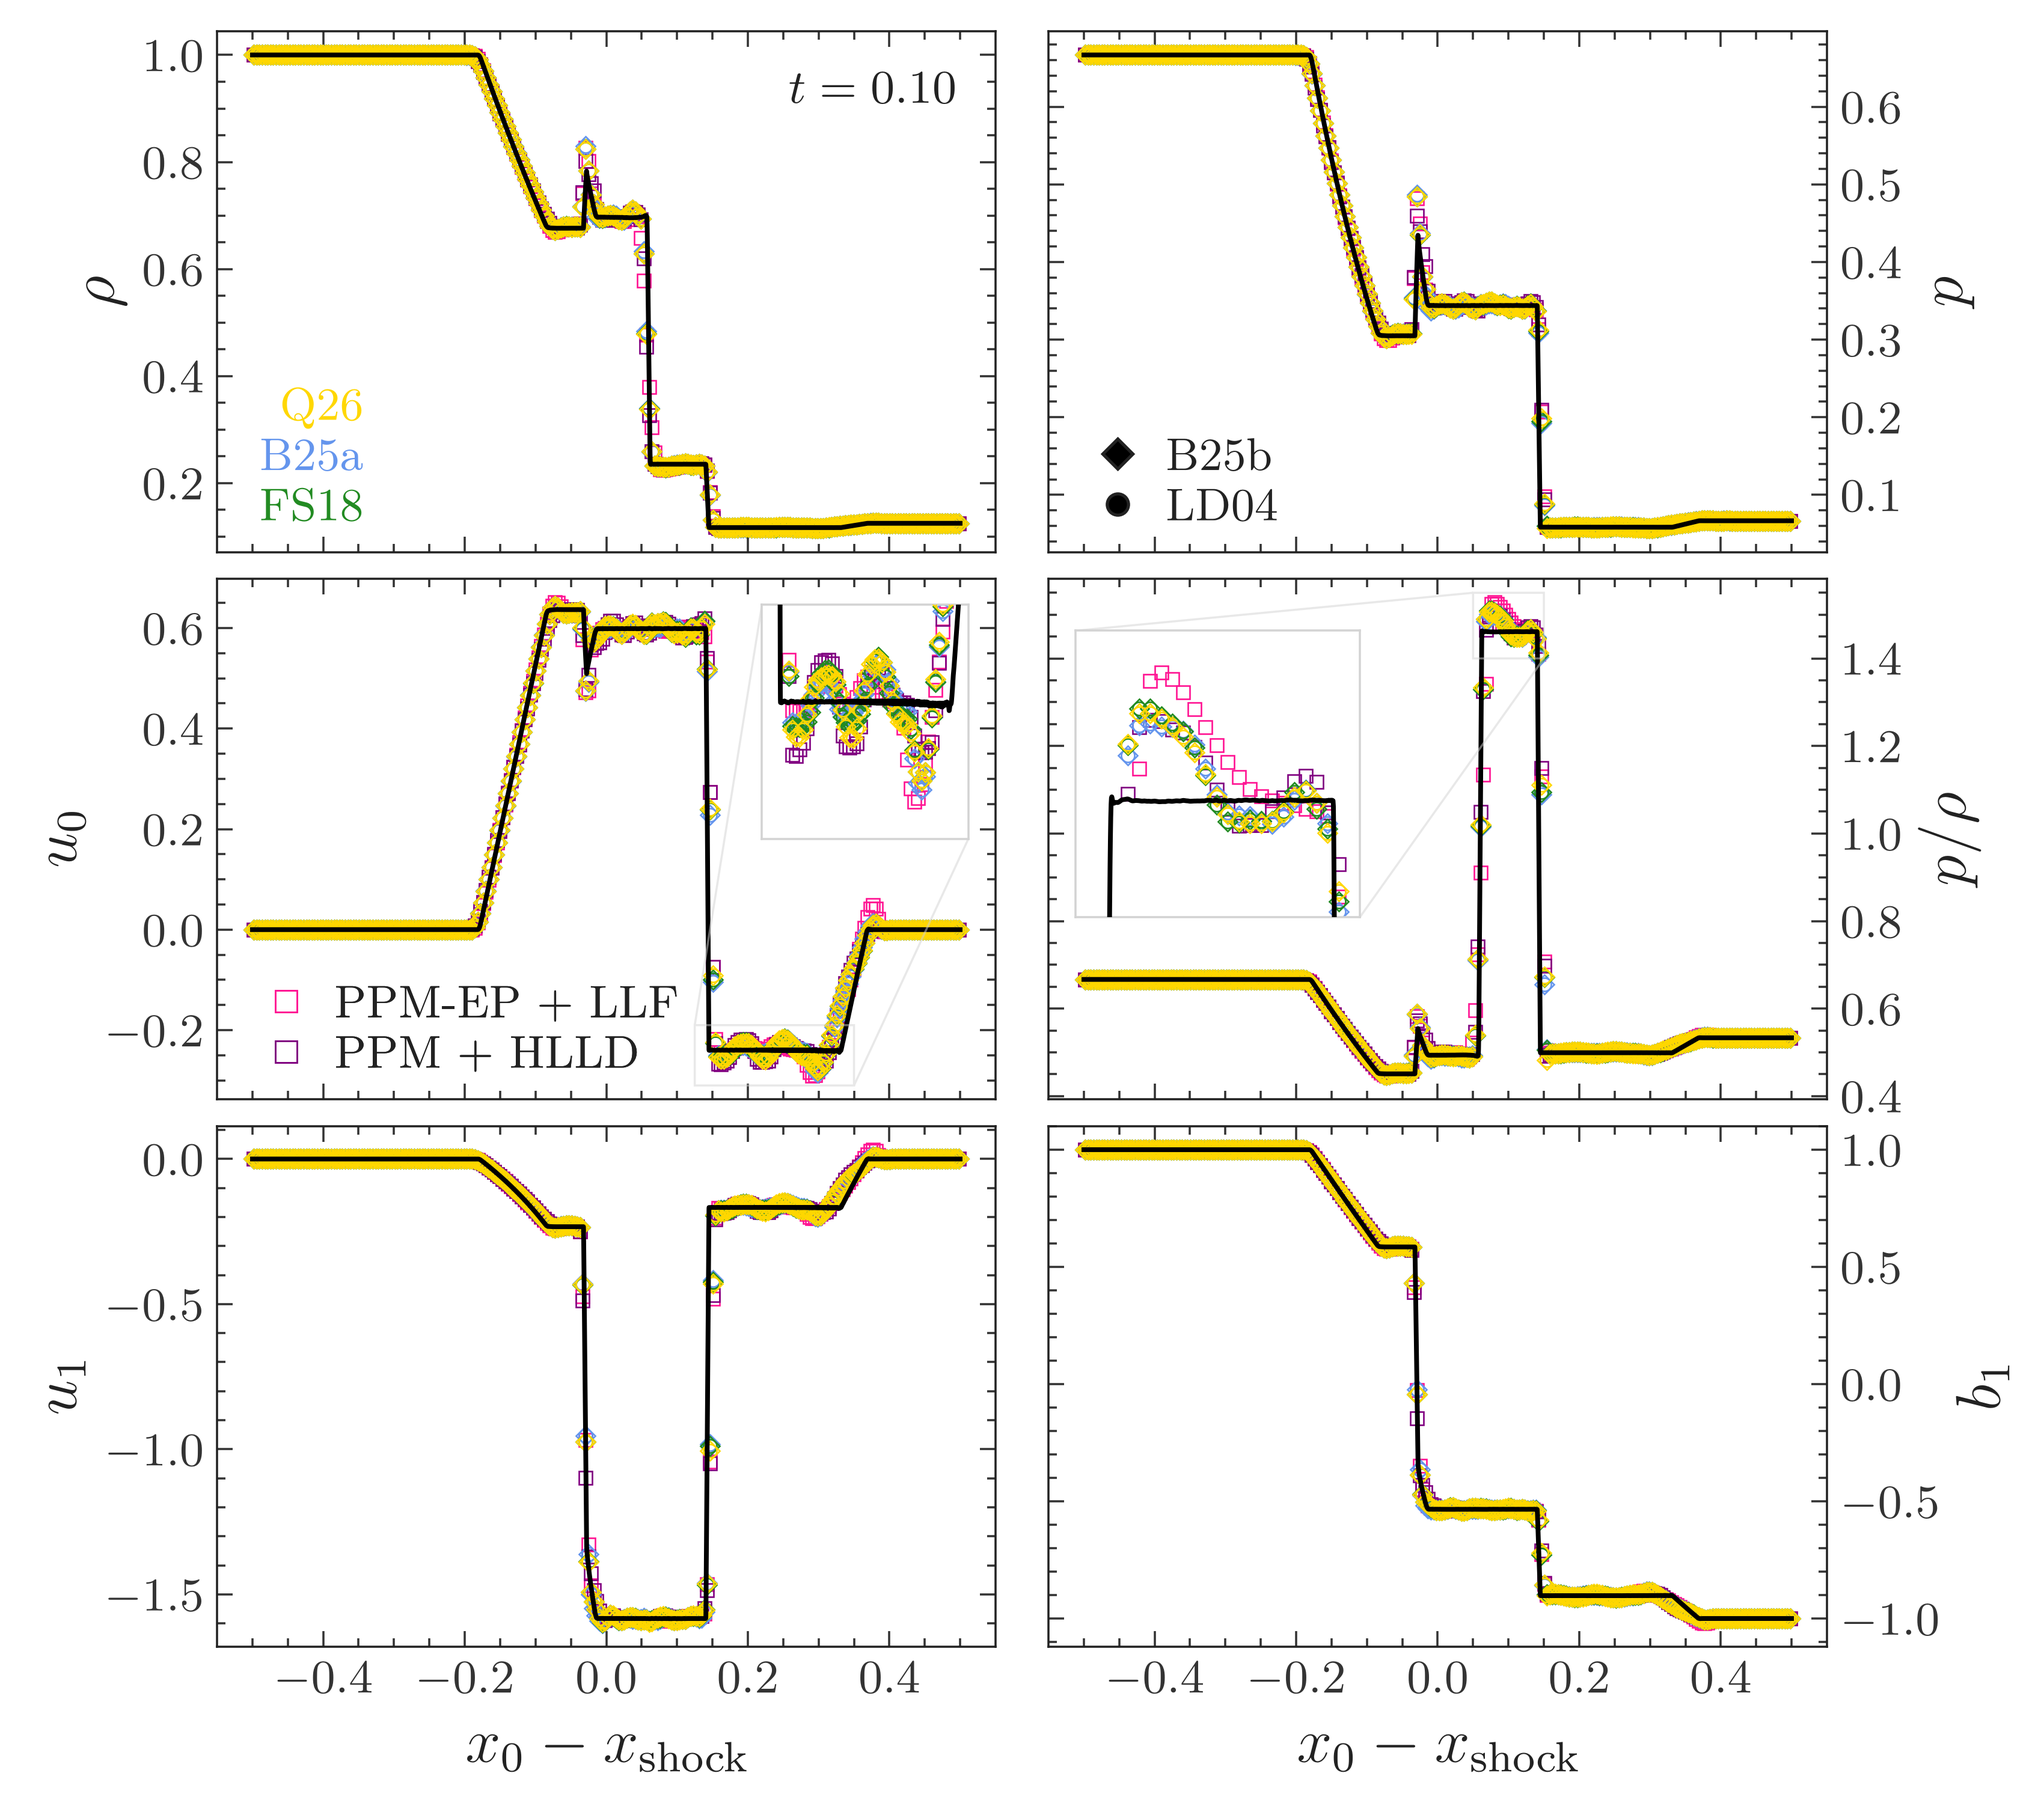
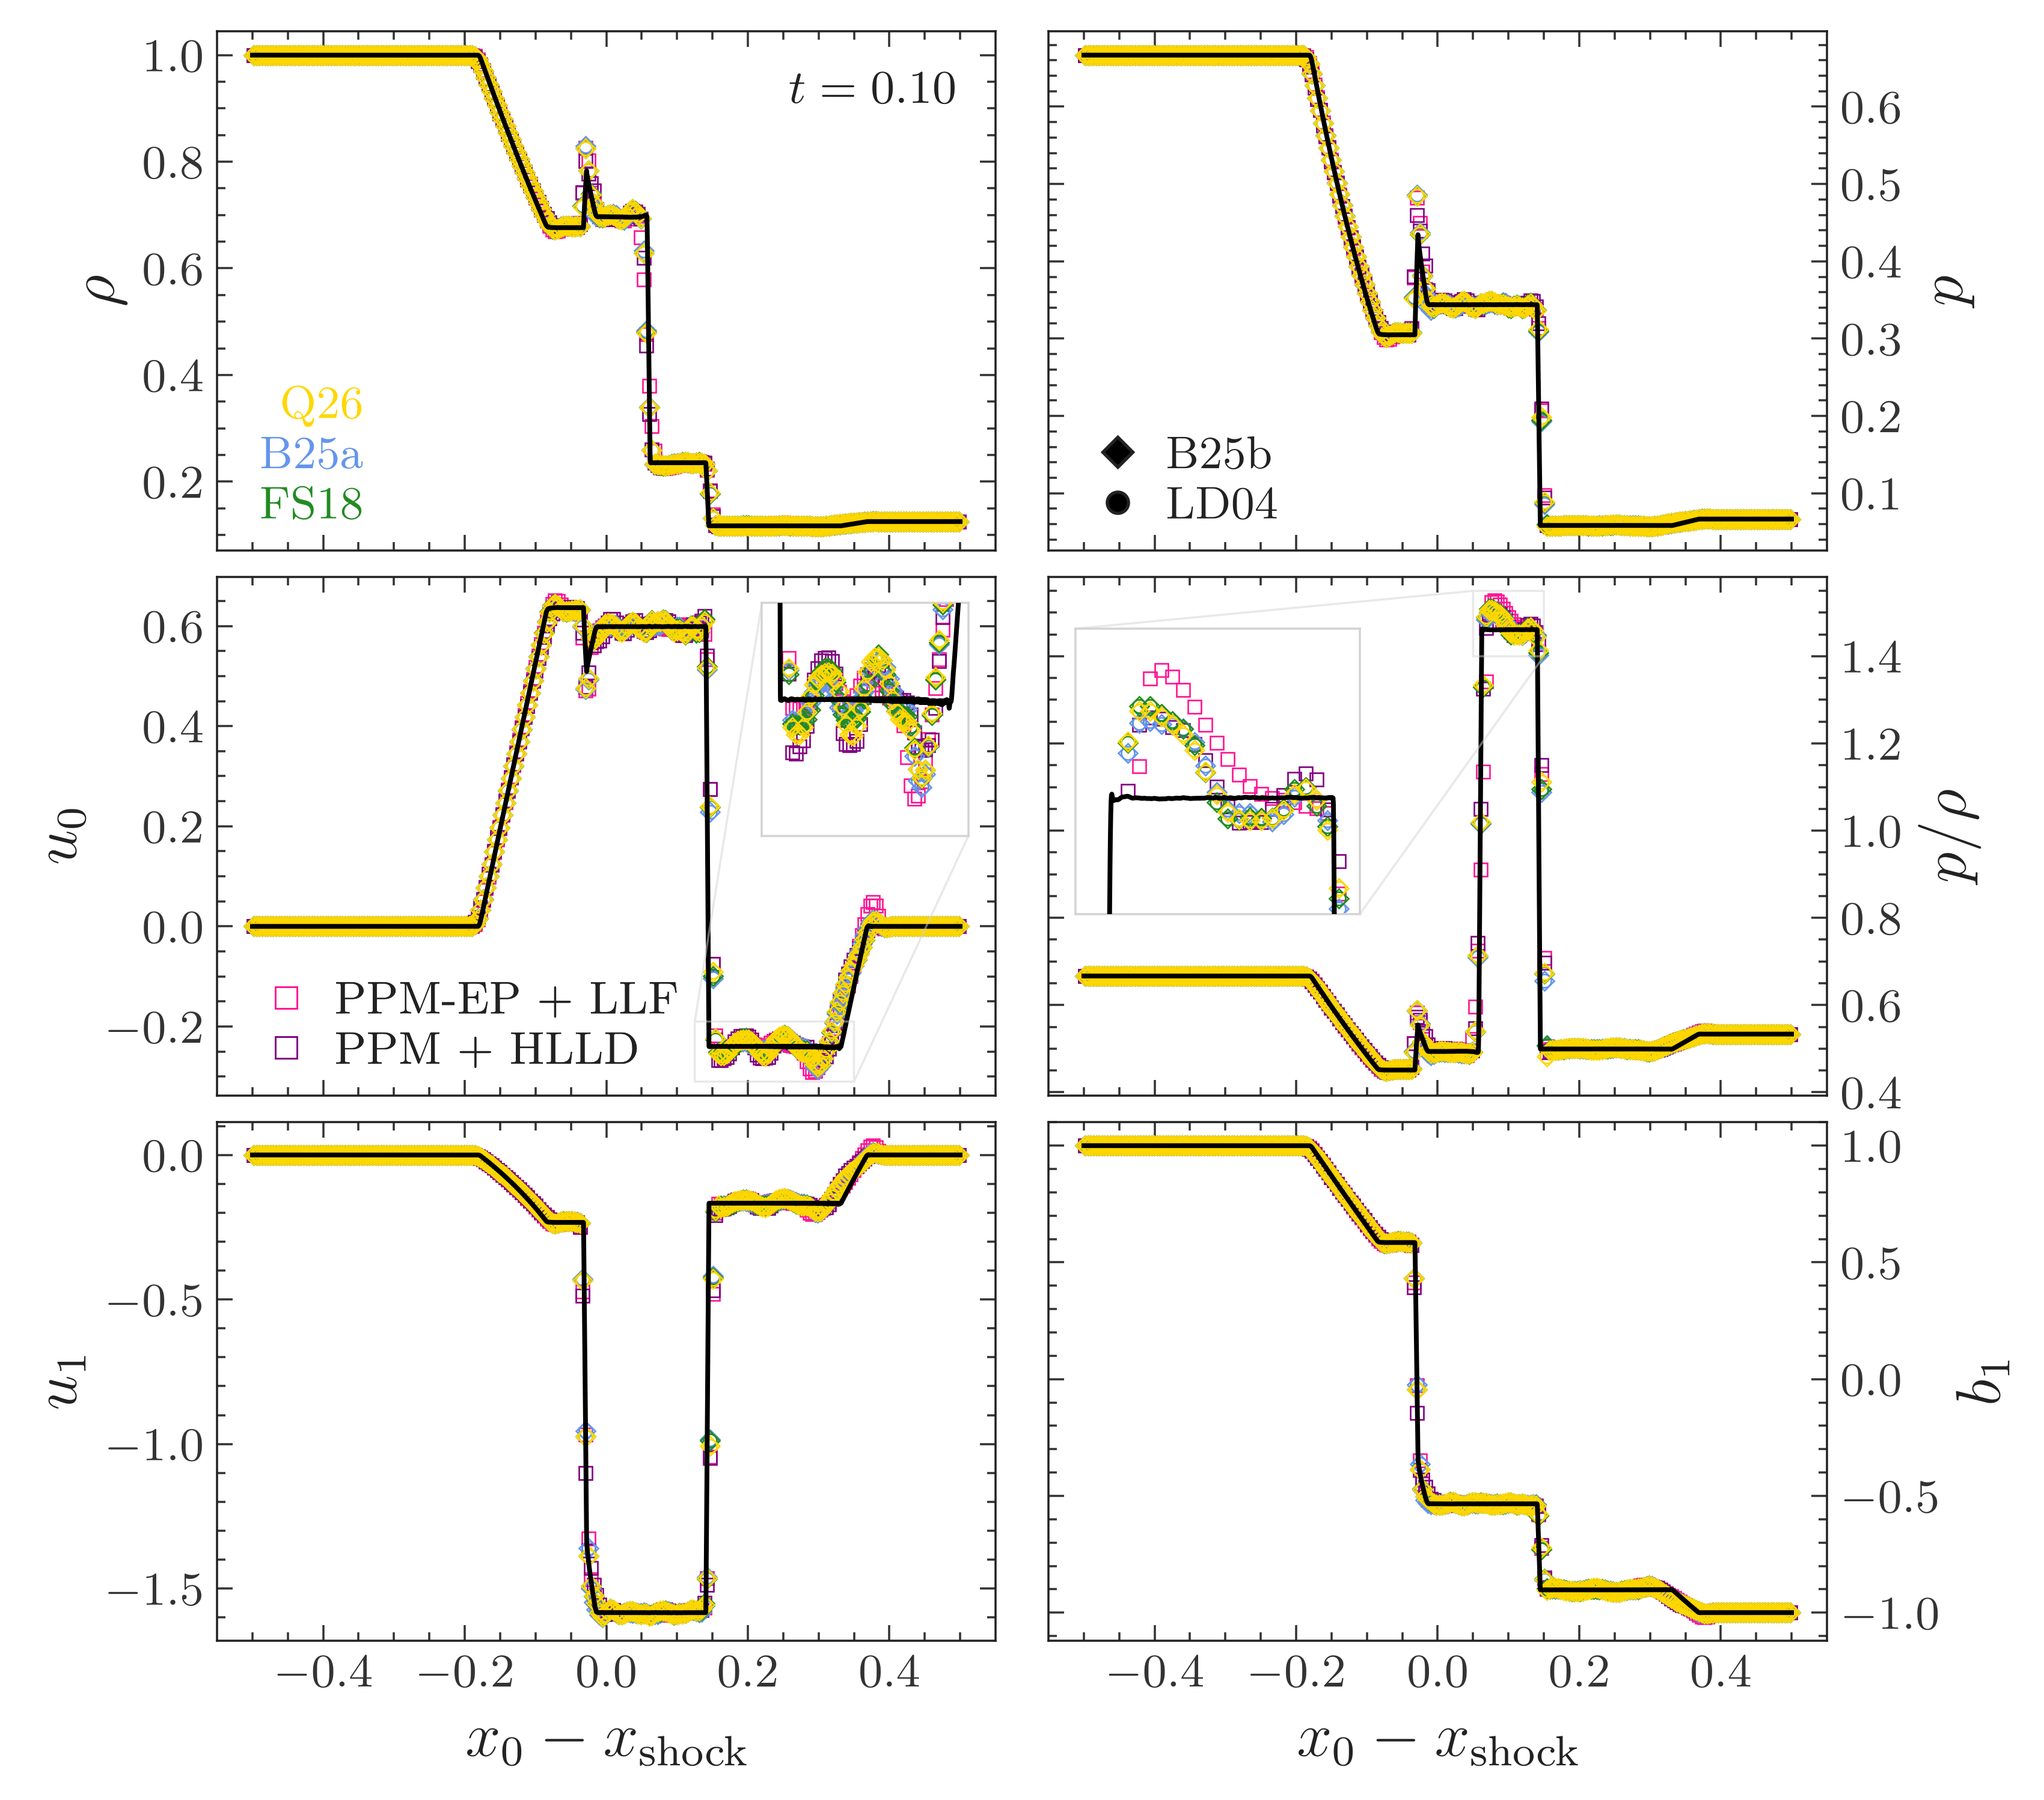
update-file(brio-wu): fraction aspect ratio; rename ncells to num_cells dataset paths.

diff --git a/scripts/problems/brio-wu-shock-tube/plot_scheme_comparison.py b/scripts/problems/brio-wu-shock-tube/plot_scheme_comparison.py
@@ -441,7 +441,7 @@ def main() -> None:
         directory=FIGURE_PATH.parent,
         verbose=False,
     )
-    reference_sim_dir = DATASET_DIR / "ncells=8192/hlld" / get_sim_tag(
+    reference_sim_dir = DATASET_DIR / "num_cells=8192/hlld" / get_sim_tag(
         emf_compute_scheme=EMFComputeScheme.Q26,
         emf_averaging_scheme=EMFAveragingScheme.B25,
     )
@@ -454,7 +454,7 @@ def main() -> None:
     )
     llf_sim_profiles = shift_profiles(
         profiles=load_sim_profiles(
-            sim_dir=DATASET_DIR / "ncells=256/llf" / get_sim_tag(
+            sim_dir=DATASET_DIR / "num_cells=256/llf" / get_sim_tag(
                 emf_compute_scheme=EMFComputeScheme.Q26,
                 emf_averaging_scheme=EMFAveragingScheme.B25,
             ),
@@ -464,7 +464,8 @@ def main() -> None:
     figure, panel_grid = manage_figure.create_figure(
         num_panel_cols=2,
         num_panel_rows=3,
-        panel_aspect_ratio=1.494,
+        ## chosen by eye
+        panel_aspect_ratio=3.0 / 2.0,
         ## the rows share an x axis, so only their frames sit in the gap, not tick labels
         panel_row_gap_pt=5.0,
         ## drawn at the width the paper prints it at, so its text is the size it asks for
@@ -495,7 +496,7 @@ def main() -> None:
     )
     ppm_sim_profiles = shift_profiles(
         profiles=load_sim_profiles(
-            sim_dir=DATASET_DIR / "ncells=256/hlld/q26-b25-ppm",
+            sim_dir=DATASET_DIR / "num_cells=256/hlld/q26-b25-ppm",
         ),
         shift=DISCONTINUITY_POSITION,
     )
@@ -511,7 +512,7 @@ def main() -> None:
     )
     for emf_compute_scheme in EMFComputeScheme:
         for emf_averaging_scheme in EMFAveragingScheme:
-            sim_dir = DATASET_DIR / "ncells=256/hlld" / get_sim_tag(
+            sim_dir = DATASET_DIR / "num_cells=256/hlld" / get_sim_tag(
                 emf_compute_scheme=emf_compute_scheme,
                 emf_averaging_scheme=emf_averaging_scheme,
             )
